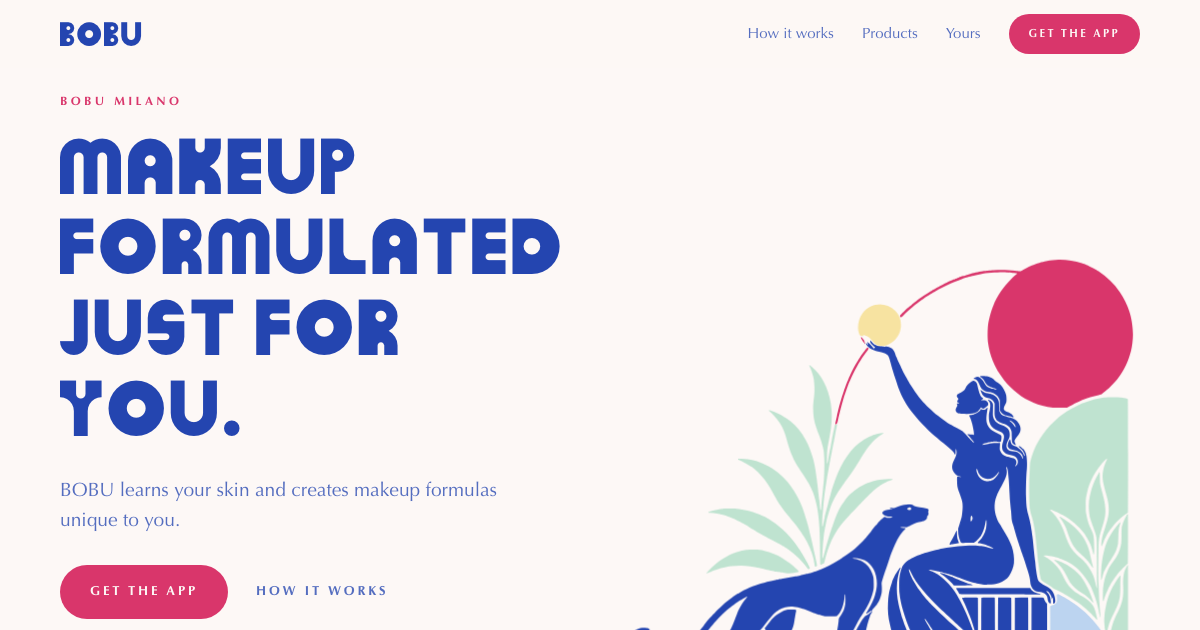
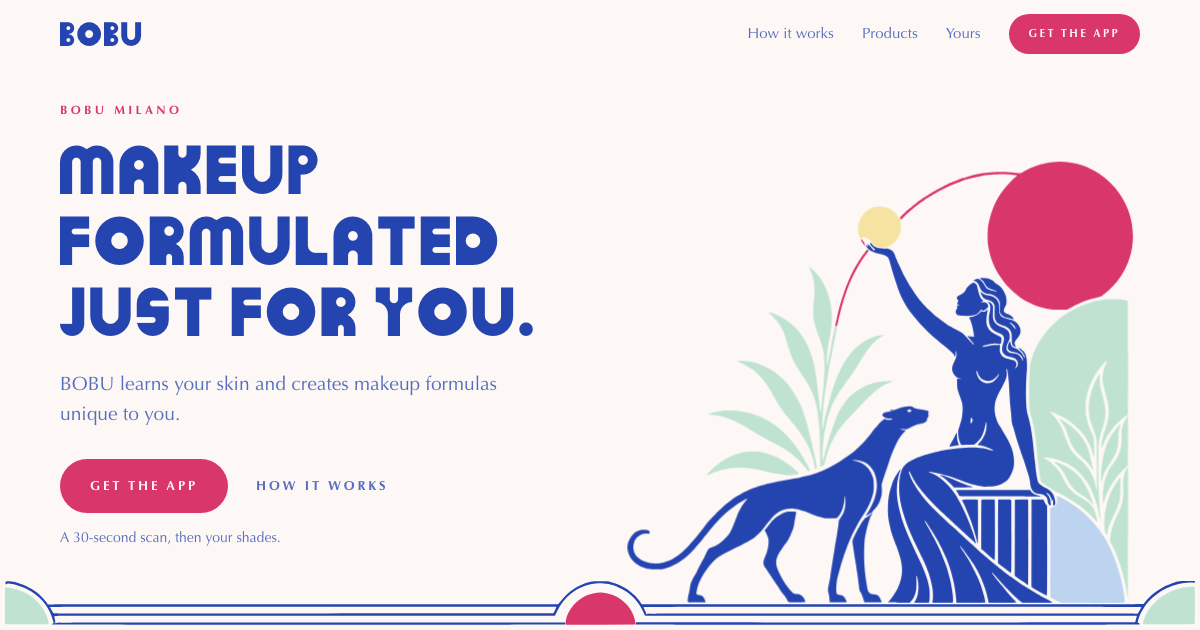
Soften the Milan line and refresh the share image

diff --git a/index.html b/index.html
@@ -4,13 +4,13 @@
 <meta charset="utf-8">
 <meta name="viewport" content="width=device-width, initial-scale=1, viewport-fit=cover">
 <title>BOBU Milano · Makeup formulated just for you</title>
-<meta name="description" content="BOBU learns your skin and creates makeup formulas unique to you. A 30-second scan in the app, then foundation, concealer, blush, lipstick and gloss mixed to order in Milan.">
+<meta name="description" content="BOBU learns your skin and creates makeup formulas unique to you. A 30-second scan in the app, then foundation, concealer, blush, lipstick and gloss mixed to order.">
 <meta name="theme-color" content="#FDF8F6">
 <link rel="canonical" href="https://bobumilano.com/">
 <meta property="og:type" content="website">
 <meta property="og:url" content="https://bobumilano.com/">
 <meta property="og:title" content="BOBU Milano · Makeup formulated just for you">
-<meta property="og:description" content="A 30-second scan, then makeup mixed to order in Milan, in a box with your name on it.">
+<meta property="og:description" content="A 30-second scan, then makeup mixed to order, in a box with your name on it.">
 <meta property="og:image" content="https://bobumilano.com/assets/og.png">
 <meta name="twitter:card" content="summary_large_image">
 <link rel="icon" href="assets/icon.png">
@@ -60,7 +60,7 @@
       <div class="scrub-copy">
         <p class="eyebrow">Your first box</p>
         <h2 class="display">A box with your name on it.</h2>
-        <p>Mixed to order in Milan. Your name is on the lid and on every piece inside.</p>
+        <p>Mixed to order. Your name is on the lid and on every piece inside.</p>
         <div class="scroll-cue" aria-hidden="true"><span></span>Scroll to open</div>
       </div>
     </div>
@@ -85,7 +85,7 @@
       <li class="reveal">
         <div class="step-art"><img src="assets/art/arches.svg" alt=""></div>
         <p class="step-n">3</p>
-        <h3>Mixed for you, in Milan</h3>
+        <h3>Mixed just for you</h3>
         <p>Your formulas are mixed to order and arrive in a box with your name on it. Not quite right? Your first remix is free.</p>
       </li>
     </ol>
